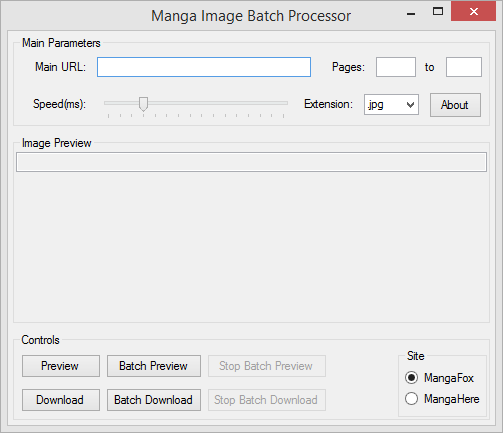
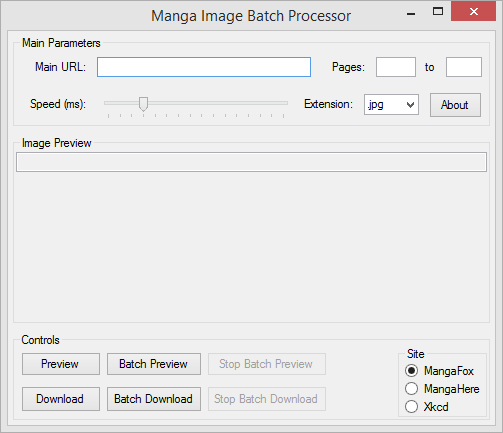
Updated readme and screenshots.

diff --git a/README.md b/README.md
@@ -6,7 +6,7 @@ Do you like "archiving" data? Especially ones that tends to be ordered sequentia
 
 ## Usage
 
-First, you need to get an URL that the program can work off of. Currently, the program is designed to work with two different types of URL that are very similar. They are:
+First, you need to get an URL that the program can work off of. Currently, the program is designed to work with three different types of URL that are very similar. They are:
 
 - MangaHere (example: http://www.mangahere.co/manga/koko_ni_iru_yo/v01/c001/43.html)
 - MangaFox (example: http://mangafox.me/manga/koko_ni_iru_yo/v01/c001/3.html)
